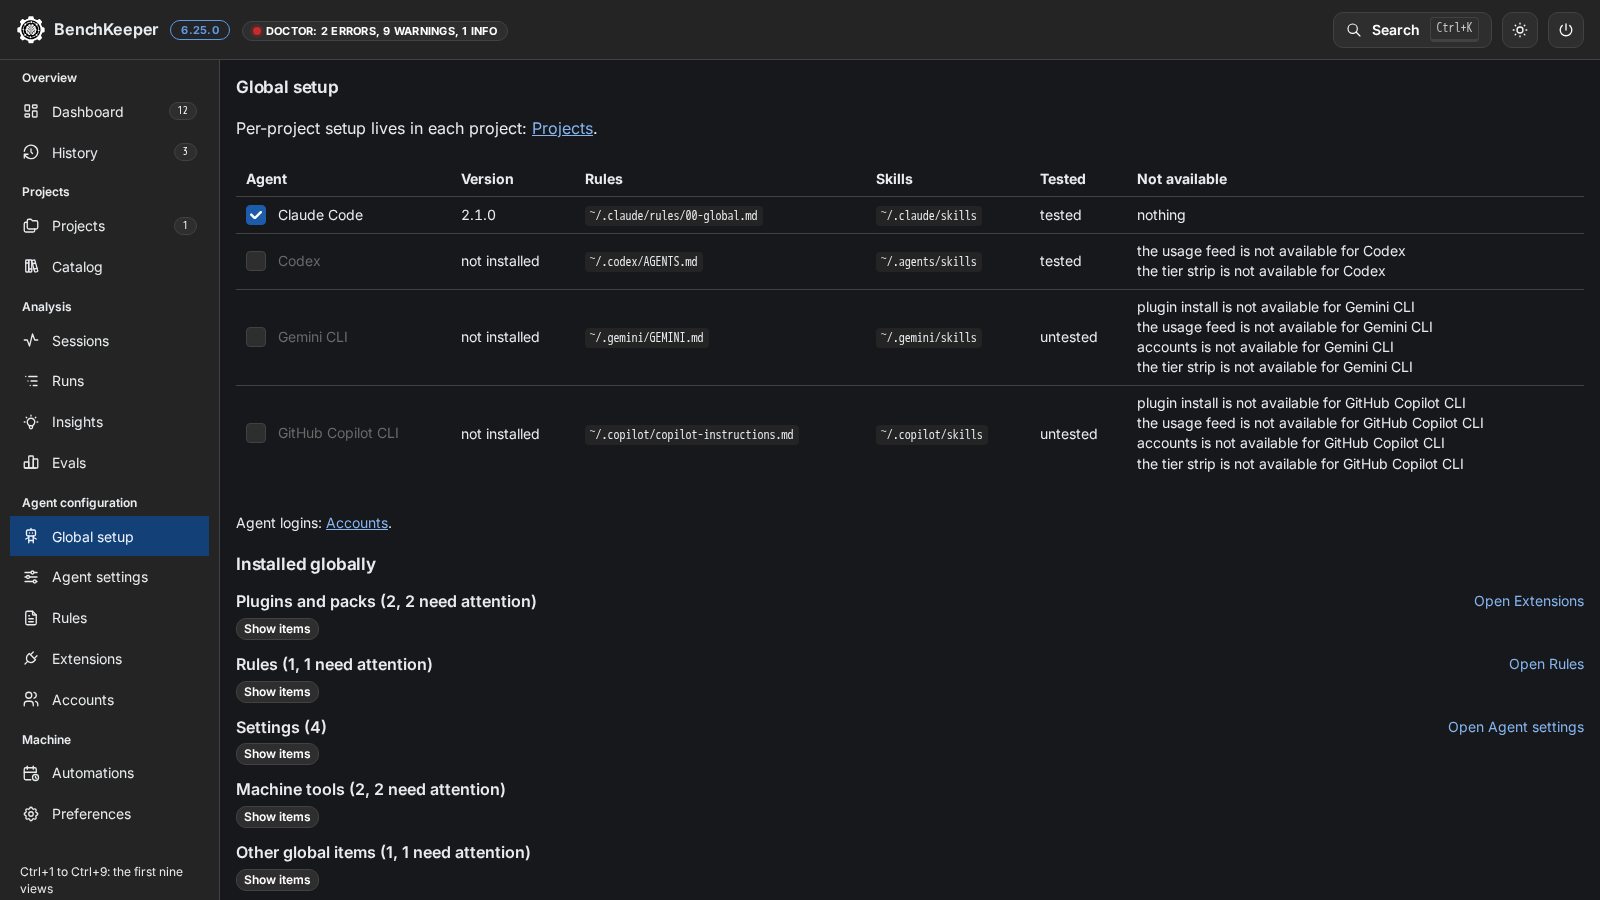
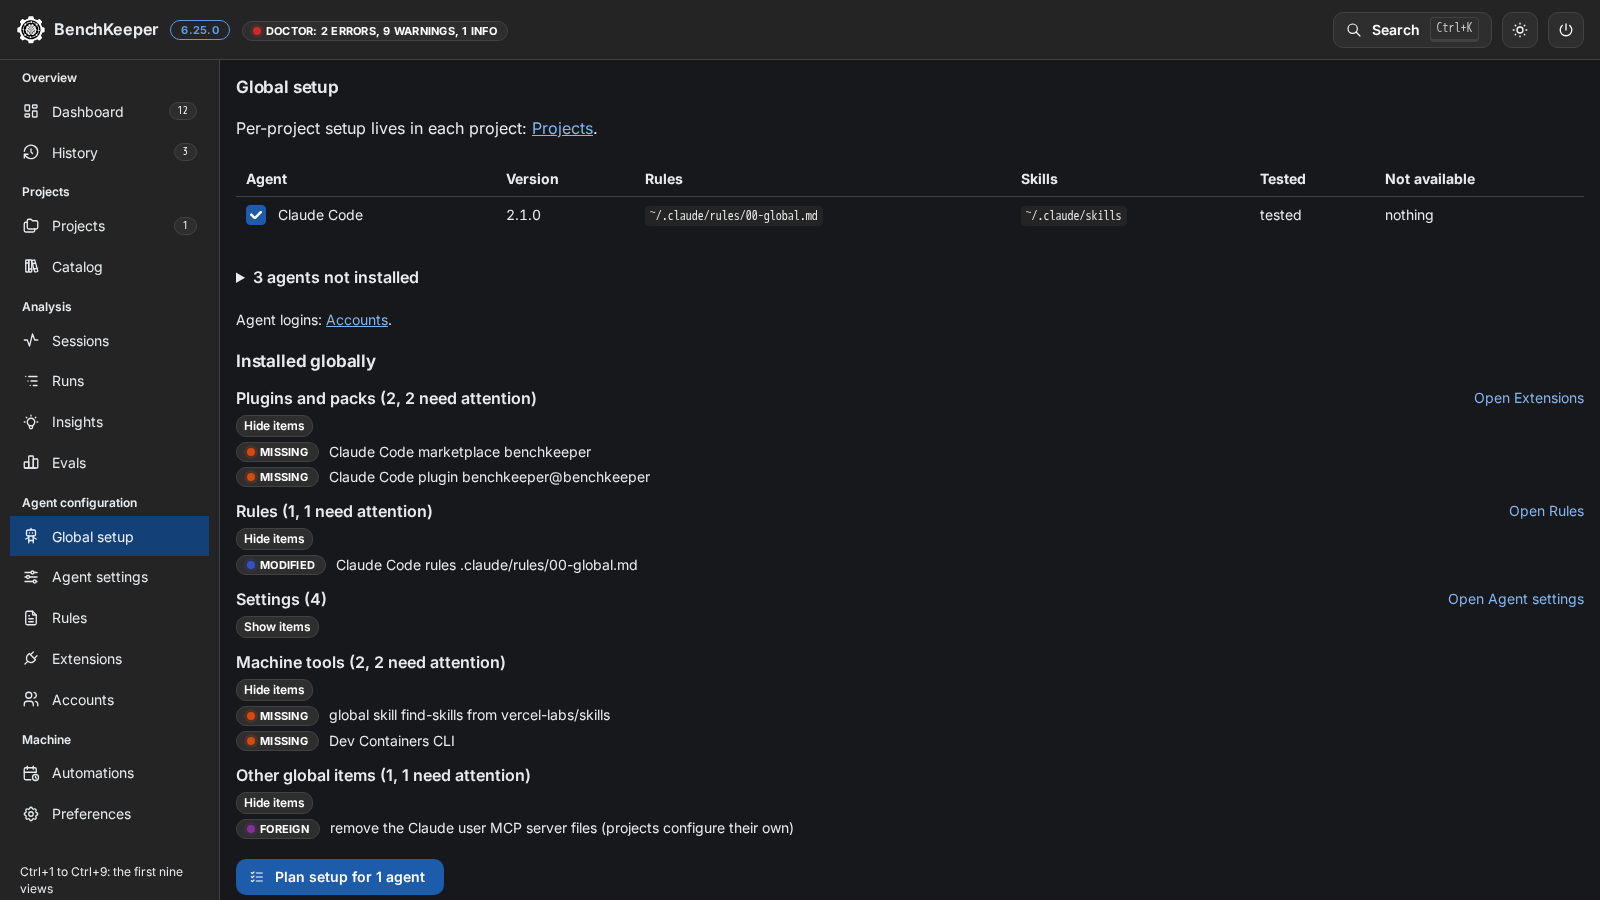
feat(app): installed agents as rows in Global setup, the rest folded (#855)
* feat(app): installed agents as rows in Global setup, the rest folded

Global setup lists the installed agents in the Agents table and folds the
agents that are not installed into one "N agents not installed" line with
the same columns and every sentence. For an installed agent, each missing
feature is a short chip with the full sentence as its tooltip and as text
for screen readers. Parts of "Installed globally" with items that need
attention are open from the start; the others stay folded.

Refs #813

* fix(app): open the missing-feature tooltip on focus and touch in Global setup

The chips are focusable and their full sentence opens as a tooltip on
hover, keyboard focus and touch, without a transition.

Refs #813

* test(app): match the full sentences of a folded agent in Global setup

Refs #813

diff --git a/app/ui/views.jsx b/app/ui/views.jsx
@@ -1,4 +1,4 @@
-import { Anchor, Badge, Button, Checkbox, Code, Divider, Drawer, FileButton, Group, List, Loader, Modal, NavLink, Progress, SegmentedControl, Select, SimpleGrid, Stack, Switch, Table, Tabs, Text, TextInput, Title, VisuallyHidden, useComputedColorScheme } from '@mantine/core';
+import { Anchor, Badge, Button, Checkbox, Code, Divider, Drawer, FileButton, Group, List, Loader, Modal, NavLink, Progress, SegmentedControl, Select, SimpleGrid, Stack, Switch, Table, Tabs, Text, TextInput, Title, Tooltip, VisuallyHidden, useComputedColorScheme } from '@mantine/core';
 import { IconDeviceFloppy, IconDownload, IconFolderSearch, IconFolders, IconListCheck, IconPackage, IconPlus, IconRefresh, IconTrash, IconUpload } from '@tabler/icons-react';
 import { Component, Suspense, lazy, useEffect, useRef, useState } from 'react';
 import { api } from './api.js';
@@ -216,7 +216,7 @@ function SkillDetail({ skill, results }) {
 const GLOBAL_PARTS = [[['plugin', 'pack'], 'Plugins and packs', 'extensions', 'Extensions'], [['skills'], 'Skills'], [['rules'], 'Rules', 'rules', 'Rules'],
   [['ask', 'settings'], 'Settings', 'agent-settings', 'Agent settings'], [['tools'], 'Machine tools'], [['other'], 'Other global items']];
 
-// What the global setup installs, by part, with its state on disk; a part's items open on a button.
+// What the global setup installs, by part, with its state on disk; a part's items open on a button, open from the start when some need attention.
 function GlobalItems({ items }) {
   const parts = GLOBAL_PARTS.map(([steps, title, view, viewName]) => ({ title, view, viewName, rows: items.filter((i) => steps.includes(i.step.split(':')[0])) })).filter((p) => p.rows.length);
   if (!parts.length) return <Text size="sm">Nothing is installed globally yet: plan the setup below.</Text>;
@@ -228,7 +228,7 @@ function GlobalItems({ items }) {
           <Text fw={600}>{p.title} ({p.rows.length}{attention ? `, ${attention} need attention` : ''})</Text>
           {p.view && <Anchor href={href(p.view)} size="sm">Open {p.viewName}</Anchor>}
         </Group>
-        <Folded title={p.title} label={['Show items', 'Hide items']} name={`items of ${p.title}`}>
+        <Folded title={p.title} label={['Show items', 'Hide items']} name={`items of ${p.title}`} initial={attention > 0}>
           <List size="sm" listStyleType="none" spacing={4}>
             {p.rows.map((i) => <List.Item key={`${i.step}|${i.title}`}><Group gap="xs" wrap="nowrap"><StateBadge state={i.state} /><Text size="sm" style={{ overflowWrap: 'anywhere' }}>{i.title}</Text></Group></List.Item>)}
           </List>
@@ -236,6 +236,35 @@ function GlobalItems({ items }) {
       </Stack>
     );
   });
+}
+
+// One row per agent. An installed agent shows a short chip per missing feature with the sentence as its tooltip;
+// the agents that are not installed show the sentences.
+function AgentTable({ label, agents, chosen, onCheck }) {
+  return (
+    <Table.ScrollContainer minWidth={640} scrollAreaProps={{ viewportProps: { tabIndex: 0, role: 'region', 'aria-label': `${label}, scrollable` } }}>
+      <Table aria-label={label}>
+        <Table.Thead><Table.Tr><Table.Th>Agent</Table.Th><Table.Th>Version</Table.Th><Table.Th>Rules</Table.Th><Table.Th>Skills</Table.Th><Table.Th>Tested</Table.Th><Table.Th>Not available</Table.Th></Table.Tr></Table.Thead>
+        <Table.Tbody>
+          {agents.map((a) => (
+            <Table.Tr key={a.id}>
+              <Table.Td><Checkbox label={a.name} disabled={!a.installed} checked={chosen.includes(a.id)} onChange={() => onCheck(chosen.includes(a.id) ? chosen.filter((x) => x !== a.id) : [...chosen, a.id])} /></Table.Td>
+              <Table.Td>{a.version ?? 'not installed'}</Table.Td>
+              <Table.Td><Code>~/{a.rules}</Code></Table.Td>
+              <Table.Td><Code>~/{a.skills}</Code></Table.Td>
+              <Table.Td>{a.tested ? 'tested' : 'untested'}</Table.Td>
+              <Table.Td>{!a.unavailable.length ? 'nothing' : a.installed ? (
+                <Group gap={4}>
+                  {/* shortcut: the chip is the sentence up to "is not available", fine while every sentence has that form. */}
+                  {a.unavailable.map((m) => { const [short, rest] = m.split(/(?= is not available)/); return <Tooltip key={m} label={m} events={{ hover: true, focus: true, touch: true }} transitionProps={{ duration: 0 }}><Badge variant="default" tabIndex={0}>{short}<VisuallyHidden>{rest}</VisuallyHidden></Badge></Tooltip>; })}
+                </Group>
+              ) : <List size="sm" listStyleType="none">{a.unavailable.map((m) => <List.Item key={m}>{m}</List.Item>)}</List>}</Table.Td>
+            </Table.Tr>
+          ))}
+        </Table.Tbody>
+      </Table>
+    </Table.ScrollContainer>
+  );
 }
 
 // Only global things: per-project setup lives on each project's page.
@@ -260,23 +289,13 @@ export function Agents({ overview, params, refresh }) {
       return (
         <Stack gap="lg">
           <Text>Per-project setup lives in each project: <Anchor href={href('projects')} underline="always">Projects</Anchor>.</Text>
-          <Table.ScrollContainer minWidth={640}>
-          <Table aria-label="Agents">
-            <Table.Thead><Table.Tr><Table.Th>Agent</Table.Th><Table.Th>Version</Table.Th><Table.Th>Rules</Table.Th><Table.Th>Skills</Table.Th><Table.Th>Tested</Table.Th><Table.Th>Not available</Table.Th></Table.Tr></Table.Thead>
-            <Table.Tbody>
-              {o.agents.map((a) => (
-                <Table.Tr key={a.id}>
-                  <Table.Td><Checkbox label={a.name} disabled={!a.installed} checked={chosen.includes(a.id)} onChange={() => setSelect(chosen.includes(a.id) ? chosen.filter((x) => x !== a.id) : [...chosen, a.id])} /></Table.Td>
-                  <Table.Td>{a.version ?? 'not installed'}</Table.Td>
-                  <Table.Td><Code>~/{a.rules}</Code></Table.Td>
-                  <Table.Td><Code>~/{a.skills}</Code></Table.Td>
-                  <Table.Td>{a.tested ? 'tested' : 'untested'}</Table.Td>
-                  <Table.Td>{a.unavailable.length ? <List size="sm" listStyleType="none">{a.unavailable.map((m) => <List.Item key={m}>{m}</List.Item>)}</List> : 'nothing'}</Table.Td>
-                </Table.Tr>
-              ))}
-            </Table.Tbody>
-          </Table>
-          </Table.ScrollContainer>
+          {o.agents.some((a) => a.installed) ? <AgentTable label="Agents" agents={o.agents.filter((a) => a.installed)} chosen={chosen} onCheck={setSelect} /> : <Text size="sm">No agent is installed on this machine.</Text>}
+          {o.agents.some((a) => !a.installed) && (
+            <details>
+              <summary><Text component="span" fw={600}>{plural(o.agents.filter((a) => !a.installed).length, 'agent')} not installed</Text></summary>
+              <AgentTable label="Agents not installed" agents={o.agents.filter((a) => !a.installed)} chosen={chosen} onCheck={setSelect} />
+            </details>
+          )}
           <Text size="sm">Agent logins: <Anchor href={href('accounts')} underline="always">Accounts</Anchor>.</Text>
           <Section title="Installed globally"><Loading state={inv} label="global items">{(items) => <GlobalItems items={items} />}</Loading></Section>
           <Group><Button leftSection={icon(IconListCheck)} onClick={() => load(chosen)} disabled={!chosen.length}>Plan setup for {chosen.length} agent{chosen.length === 1 ? '' : 's'}</Button></Group>

diff --git a/web/src/components/AppPage.tsx b/web/src/components/AppPage.tsx
@@ -109,9 +109,9 @@ export const VIEWS: { id: string; view: string; title: string; shot: string; alt
   },
   {
     id: 'global', view: 'agents', title: 'Global setup', shot: 'global',
-    alt: 'The Global setup view: the agents table with version, rules file, skills folder, tested and what is not available, then the items installed globally, one group each with its count and how many need attention.',
+    alt: 'The Global setup view: the installed agents with version, rules file, skills folder, tested and a chip for each feature that is not available, the agents that are not installed folded into one line, then the items installed globally, one group each with its count and how many need attention.',
     text: [
-      'The machine-wide setup per agent: each agent with its version, rules file and skills folder, whether BenchKeeper is tested with it and what it does not support, then the items installed globally with their state.',
+      'The machine-wide setup per agent: each installed agent with its version, rules file and skills folder, whether BenchKeeper is tested with it and what it does not support, the agents that are not installed folded below, then the items installed globally with their state; a group with items that need attention starts open.',
       'Plan setup shows the changes for the agents you check, each with a diff, before anything is written. Removing the setup is an undo of its runs in History; the app does not install or remove agents.',
     ],
     cli: [`${V} plan --agents claude,codex`, `${V} apply --agents claude,codex`],

diff --git a/app/ui/shell.jsx b/app/ui/shell.jsx
@@ -106,8 +106,8 @@ const TITLE = { teal: { title: { color: 'var(--mantine-color-text)' } } };
 export const Note = ({ color = 'blue', ...props }) => <Alert color={color} icon={icon(ALERT_ICON[color] ?? IconInfoCircle, 20)} styles={TITLE[color]} {...props} />;
 
 // A change's diff (or another detail) behind a button: a long page stays short until one is opened.
-export function Folded({ title, children, label = ['Show diff', 'Hide diff'], name = `diff of ${title}` }) {
-  const [open, setOpen] = useState(false);
+export function Folded({ title, children, label = ['Show diff', 'Hide diff'], name = `diff of ${title}`, initial = false }) {
+  const [open, setOpen] = useState(initial);
   return (
     <Stack gap={4}>
       <Group><Button size="compact-xs" variant="default" aria-expanded={open} aria-label={`${open ? 'Hide' : 'Show'} ${name}`} onClick={() => setOpen(!open)}>{label[open ? 1 : 0]}</Button></Group>
